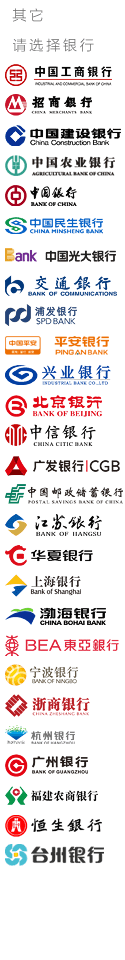
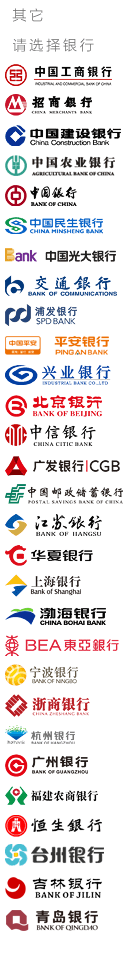
玩家中心添加吉林银行和青岛银行

Changed region(s): [[0.264, 0.9062, 0.816, 0.9688], [0.048, 0.9062, 0.24, 0.9688]]

diff --git a/WebContent/static/pcenter/online-pay.html b/WebContent/static/pcenter/online-pay.html
@@ -413,6 +413,16 @@ var environment = {
                                 <span class="radio-bank" title="江苏银行"><i class="pay-bank jsbank"></i></span>
                                 <span class="bank-logo-name">江苏银行</span>
                             </label>
+                            <label class="bank">
+                                <span class="radio"><input name="bankcode" type="radio"></span>
+                                <span class="radio-bank" title="吉林银行"><i class="pay-bank jlbank"></i></span>
+                                <span class="bank-logo-name">吉林银行</span>
+                            </label>
+                            <label class="bank">
+                                <span class="radio"><input name="bankcode" type="radio"></span>
+                                <span class="radio-bank" title="青岛银行"><i class="pay-bank qdbank"></i></span>
+                                <span class="bank-logo-name">青岛银行</span>
+                            </label>
                         </div>
                         <div class="clear"></div>
                     </div>

diff --git a/WebContent/common/themes/public-mod.css b/WebContent/common/themes/public-mod.css
@@ -46,6 +46,8 @@
 .pay-bank.fjnx{background-position:0 -780px;}/* 25 福建农商银行 */
 .pay-bank.hangseng{background-position:0 -810px;}/* 26 恒生银行 */
 .pay-bank.tzb{background-position:0 -840px;}/* 27 台州银行 */
+.pay-bank.jlbank{background-position:0 -873px;}/* 28 吉林银行 */
+.pay-bank.qdbank{background-position:0 -906px;}/* 29 青岛银行 */
 
 .sm.ceb,.sm.spdb,.sm.spabank,.sm.cib,.sm.bohaib{width: 50px;}
 /* 第三方支付 */
